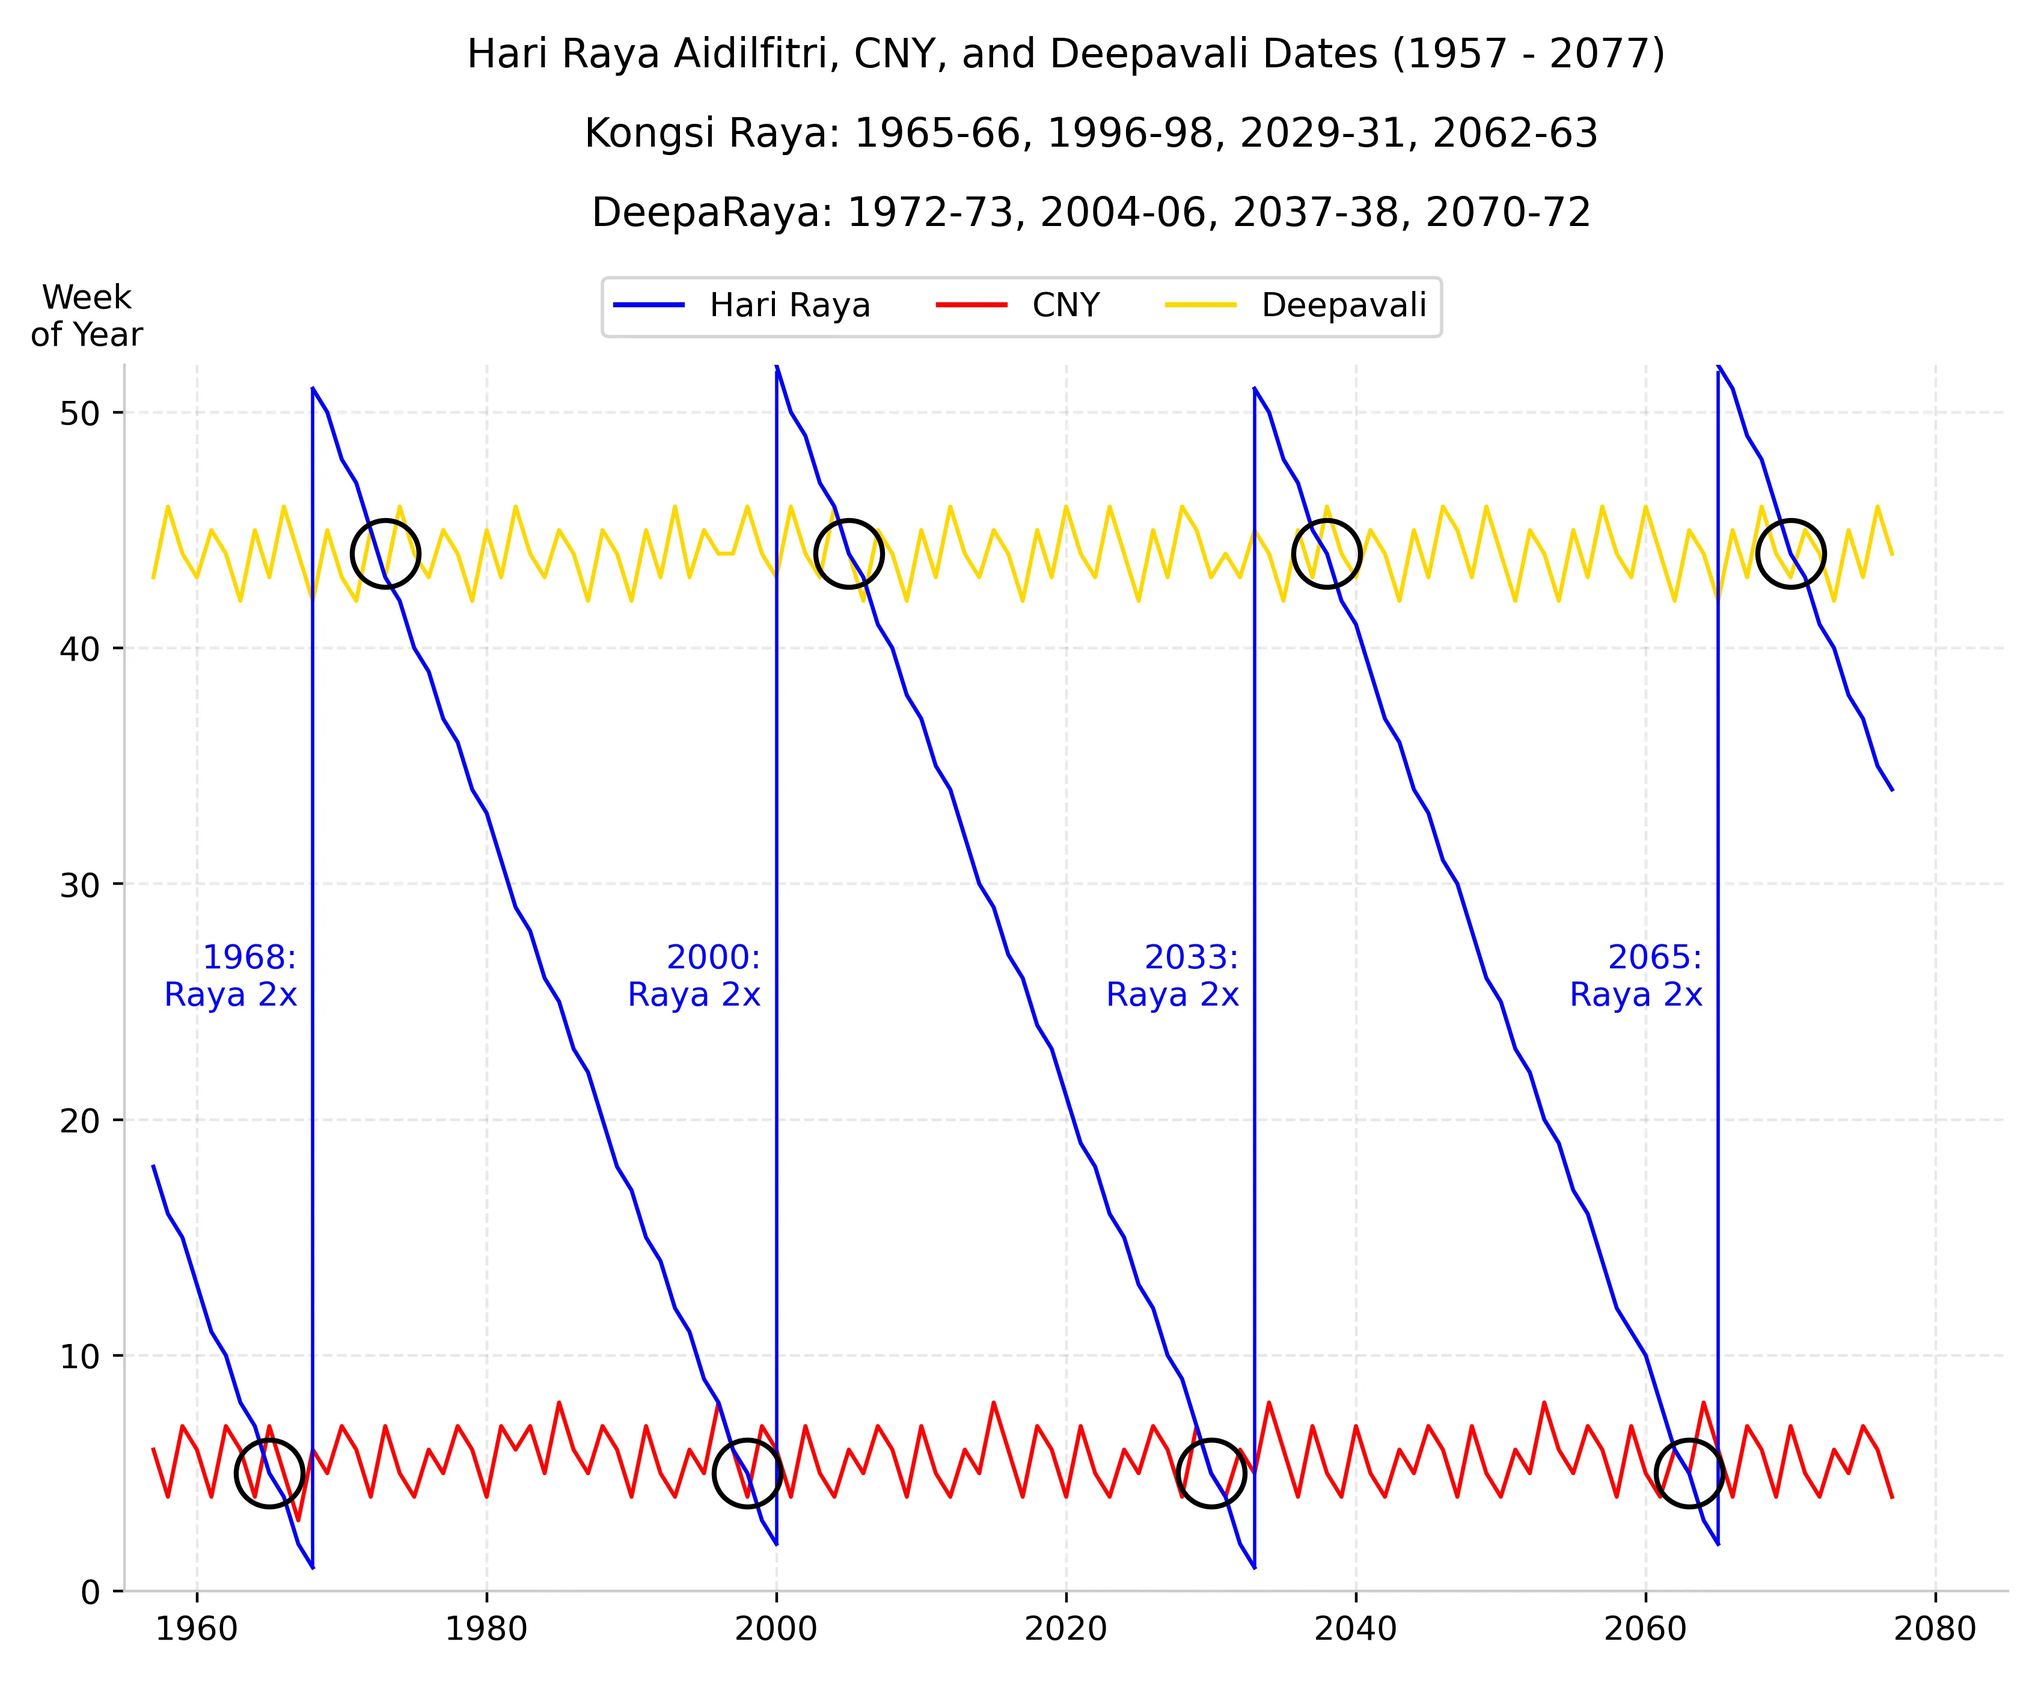
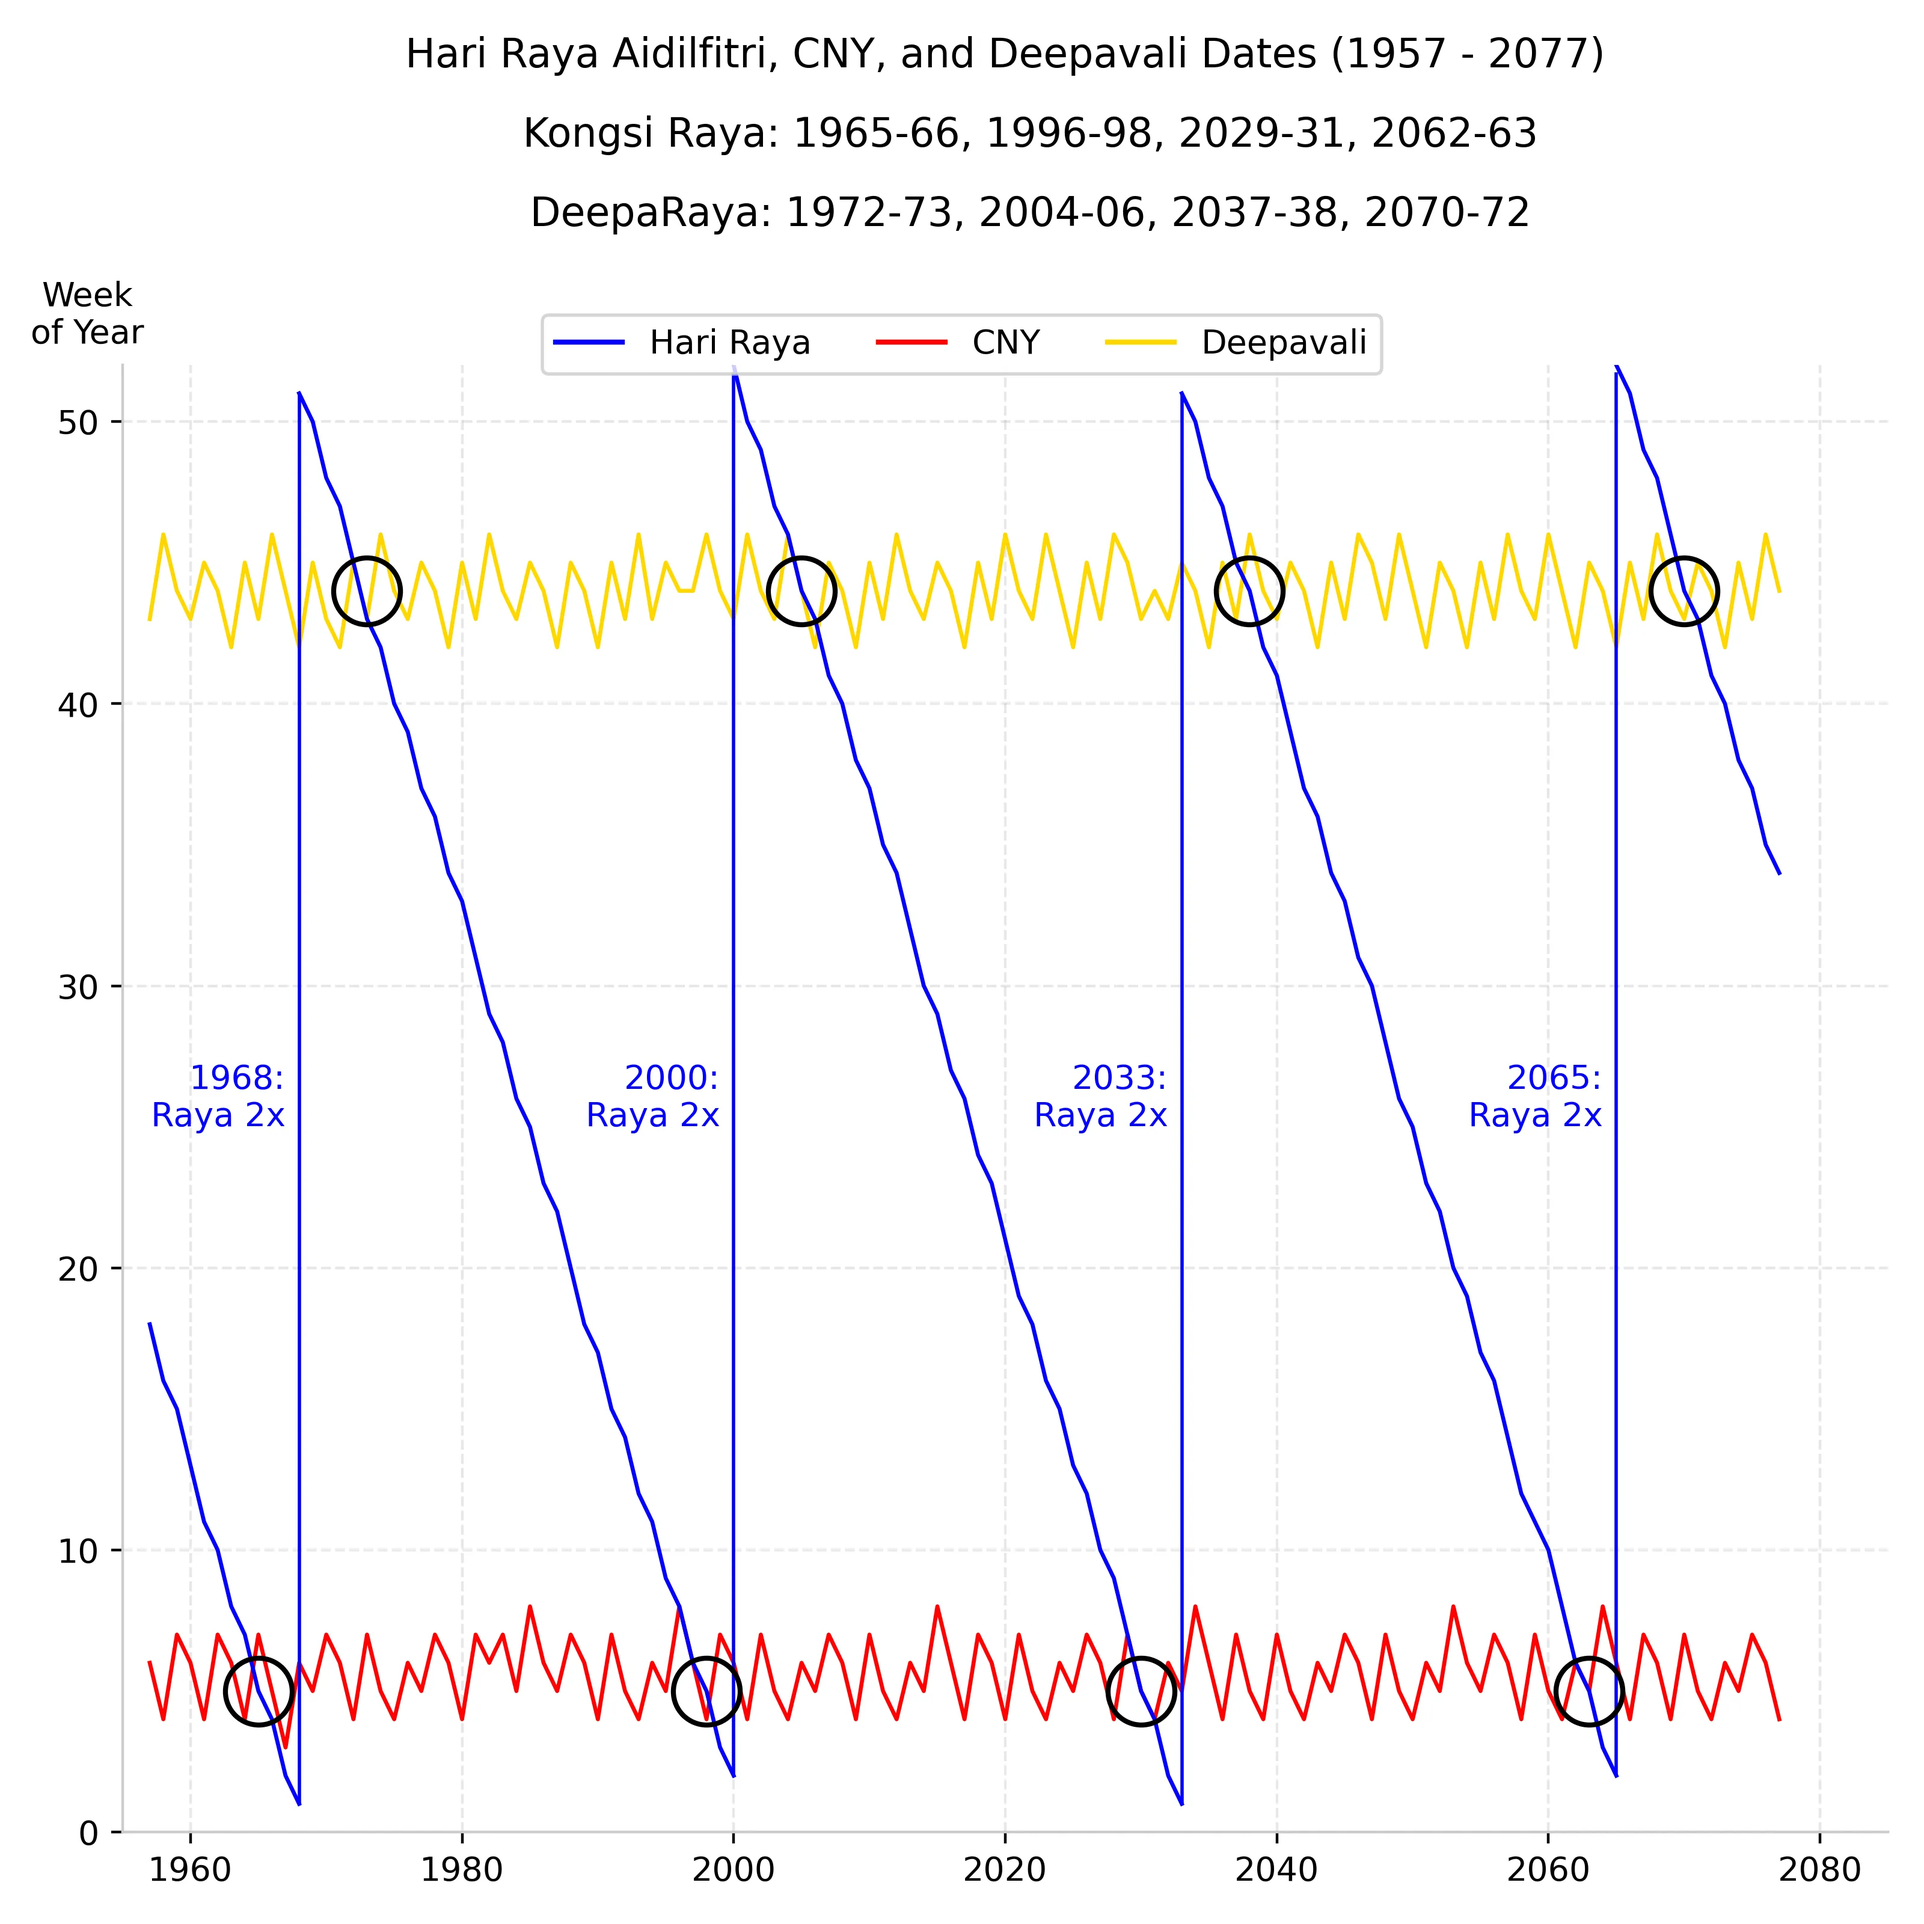
Square dimensions

diff --git a/2025-01-26_festivals/script.py b/2025-01-26_festivals/script.py
@@ -18,7 +18,7 @@ def timeseries():
     plt.rcParams.update({'font.size': 10,
                         'font.family': 'sans-serif',
                         'grid.linestyle': 'dashed'})
-    plt.rcParams["figure.figsize"] = [8.5,7]
+    plt.rcParams["figure.figsize"] = [8,8]
     plt.rcParams["figure.autolayout"] = True
     fig, ax = plt.subplots()
 
